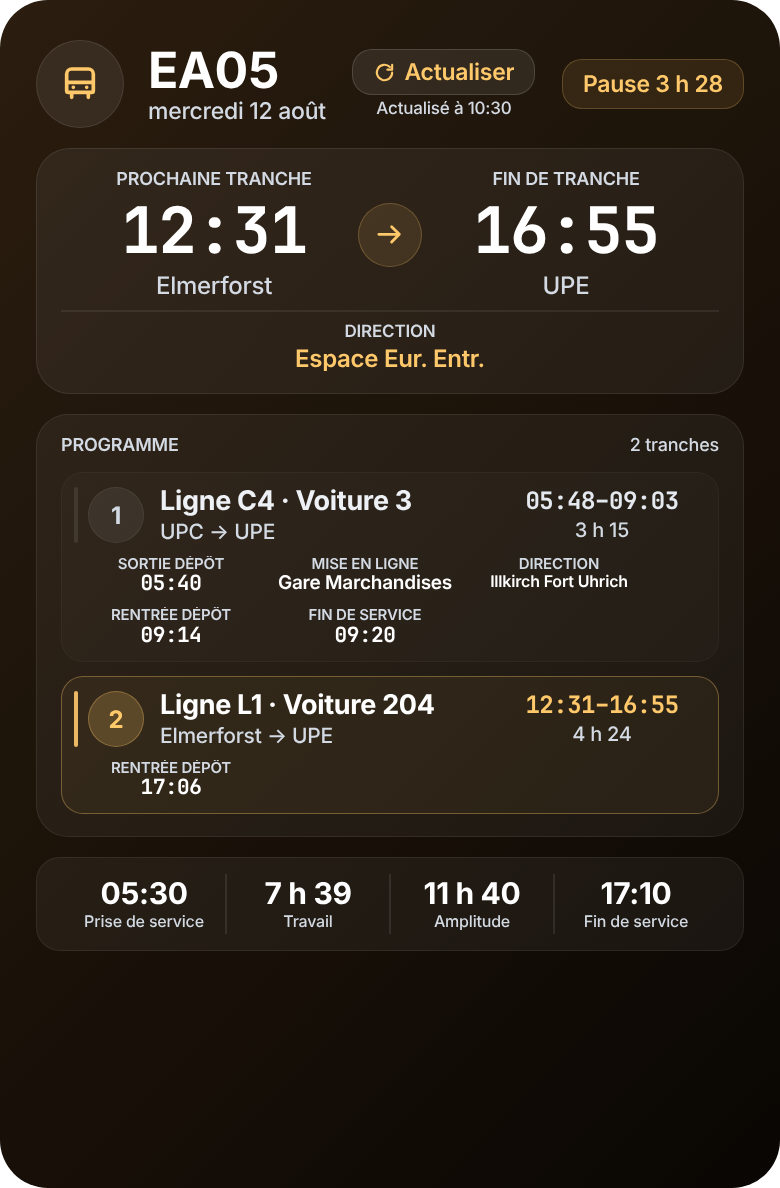
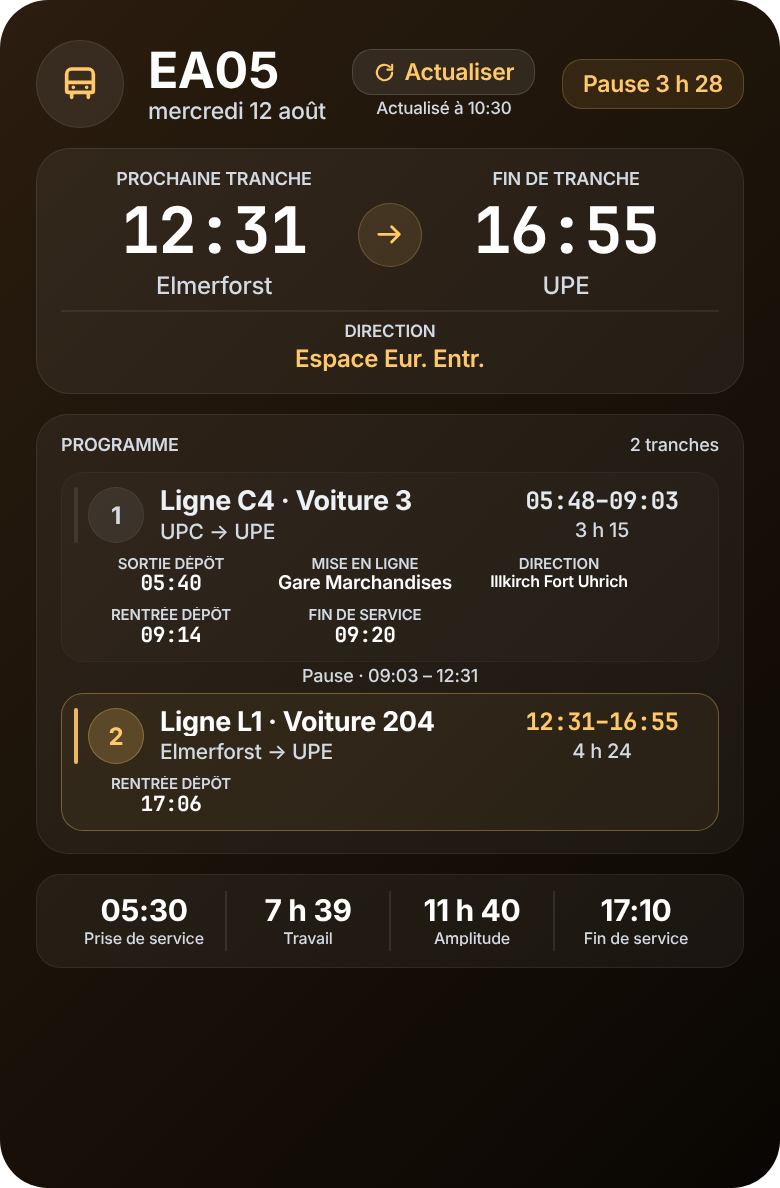
Corriger ce que la relecture a relevé avant publication
Les petites tuiles retrouvent l'heure dans leur coin, sans bouton qu'elles
n'ont pas la place d'accueillir ; en « Grandes polices », le bouton garde
sa taille et ne montre que son symbole, pour laisser sa place à la
pastille. En plein écran, la pause en cours affiche ses horaires sans
répéter la durée de la pastille. Les bancs tiennent ces trois points ; la
skill docs cite à nouveau les bonnes lignes du moteur PDF, les décisions
ne disent plus le comment, et le message ne réannonce plus l'heure.

Claude-Session: https://claude.ai/code/session_01Nj4vxte6242LHfg41seKVP

diff --git a/CTS Widget Renderer.js b/CTS Widget Renderer.js
@@ -236,6 +236,8 @@ function createLargeWidget(context, density) {
 }
 
 const REFRESH_ACTION_ID = "refresh"
+const REFRESH_FAMILIES = Object.freeze(["large", "extralargeportrait"])
+const SYMBOL_ONLY_REFRESH_WIDTH = 70
 
 const MESSAGE_REFRESH = Object.freeze({
   refreshWidth: 86,
@@ -268,6 +270,12 @@ function addRefreshBlock(parent, clock, color, metrics) {
   )
 }
 
+function addCornerClock(parent, clock, size) {
+  const row = parent.addStack()
+  row.addSpacer()
+  addText(row, `Actualisé à ${clock}`, Font.mediumSystemFont(size), secondary(), 1, 0.8)
+}
+
 function addRefreshButton(parent, color, metrics) {
   const button = parent.addStack()
   button.centerAlignContent()
@@ -282,8 +290,12 @@ function addRefreshButton(parent, color, metrics) {
   button.borderWidth = 0.5
   button.borderColor = THEME.translucentWhite(0.14)
   addSymbol(button, "arrow.clockwise", metrics.refreshButtonSize, color)
-  button.addSpacer(4)
-  addText(button, "Actualiser", Font.semiboldSystemFont(metrics.refreshButtonSize), color, 1, 0.8)
+
+  if (metrics.refreshLabel !== false) {
+    button.addSpacer(4)
+    addText(button, "Actualiser", Font.semiboldSystemFont(metrics.refreshButtonSize), color, 1, 0.8)
+  }
+
   button.setAction("Actualiser", { id: REFRESH_ACTION_ID })
 }
 
@@ -609,15 +621,17 @@ function addProgram(parent, service, state, focus, density) {
 
     const interruption = interruptions.find(item => item.afterIndex === index)
 
-    if (interruption && !isAnnouncedByPill(interruption, state)) {
-      addInterruption(card, interruption, density)
+    const announced = Boolean(interruption) && isAnnouncedByPill(interruption, state)
+
+    if (interruption && (!announced || density.interruptionTimes)) {
+      addInterruption(card, interruption, density, announced)
     } else {
       card.addSpacer(density.rowGap)
     }
   })
 }
 
-function addInterruption(parent, interruption, density) {
+function addInterruption(parent, interruption, density, announced) {
   parent.addSpacer(density.interruptionGap)
 
   const row = parent.addStack()
@@ -626,7 +640,7 @@ function addInterruption(parent, interruption, density) {
 
   const parts = [interruption.label]
   if (density.interruptionTimes) parts.push(`${interruption.start} – ${interruption.end}`)
-  parts.push(UTILS.formatDuration(interruption.duration))
+  if (!announced) parts.push(UTILS.formatDuration(interruption.duration))
   const value = parts.join(" · ")
 
   addText(
@@ -1109,8 +1123,6 @@ const TEXT_KEYS = Object.freeze([
   "placeMinimumSize",
   "placeSize",
   "rangeSize",
-  "refreshButtonSize",
-  "refreshClockSize",
   "routeMinimumSize",
   "sectionHeaderSize",
   "serviceSize",
@@ -1130,7 +1142,12 @@ function withTextScale(density, scaleValue) {
 
   if (!Number.isFinite(scale) || scale <= 1) return density
 
-  const scaled = { ...density, hidesOperationalDetails: true }
+  const scaled = {
+    ...density,
+    hidesOperationalDetails: true,
+    refreshLabel: false,
+    refreshWidth: Math.min(density.refreshWidth, SYMBOL_ONLY_REFRESH_WIDTH)
+  }
 
   for (const key of TEXT_KEYS) {
     if (typeof scaled[key] === "number") {
@@ -1148,7 +1165,6 @@ function getDensity(sliceCountValue, textScale = 1) {
 function getPortraitDensity(sliceCountValue, textScale = 1) {
   const crowded = isCrowded(sliceCountValue)
 
-  // Les tailles du plein écran ne tiennent que sur un grand écran : ailleurs, il n'y garde que ses informations en plus.
   if (getDeviceSize().width < WIDE_SCREEN_WIDTH) {
     return fitDensity(
       { ...(crowded ? densityStandard() : densityComfortable()), ...PORTRAIT_INFORMATION },
@@ -1534,6 +1550,7 @@ function createErrorWidget(title, message, family, updatedAt) {
   widget.backgroundColor = THEME.getErrorBackgroundColor()
 
   return fillMessageWidget(widget, {
+    family,
     title,
     message,
     symbol: "exclamationmark.triangle.fill",
@@ -1547,6 +1564,7 @@ function createInfoWidget(title, message, family, updatedAt) {
   if (isAccessoryFamily(family)) return createAccessoryMessage(family, title, message)
 
   return fillMessageWidget(THEME.createBaseWidget("NEXT"), {
+    family,
     title,
     message,
     symbol: "tray.and.arrow.down.fill",
@@ -1558,11 +1576,15 @@ function createInfoWidget(title, message, family, updatedAt) {
 
 function fillMessageWidget(
   widget,
-  { title, message, symbol, symbolColor, messageLines, updatedAt }
+  { family, title, message, symbol, symbolColor, messageLines, updatedAt }
 ) {
   const clock = formatClock(updatedAt)
+  const refreshInHeader = Boolean(clock) && REFRESH_FAMILIES.includes(normalizeFamily(family))
+  const clockInCorner = Boolean(clock) && !refreshInHeader
 
-  widget.setPadding(18, 18, 18, 18)
+  widget.setPadding(18, 18, clockInCorner ? 10 : 18, 18)
+
+  if (clockInCorner) widget.addSpacer()
 
   const header = widget.addStack()
   header.centerAlignContent()
@@ -1577,7 +1599,7 @@ function fillMessageWidget(
   header.addSpacer(10)
   addText(header, title, Font.boldSystemFont(17), THEME.getPrimaryTextColor(), 1, 0.72)
 
-  if (clock) {
+  if (refreshInHeader) {
     header.addSpacer()
     addRefreshBlock(header, clock, symbolColor, MESSAGE_REFRESH)
   }
@@ -1590,6 +1612,11 @@ function fillMessageWidget(
     borderAlpha: 0.07
   })
   addText(card, message, Font.mediumSystemFont(11), secondary(), messageLines, 0.72)
+
+  if (clockInCorner) {
+    widget.addSpacer()
+    addCornerClock(widget, clock, 8)
+  }
 
   return markRendered(widget)
 }

diff --git a/DECISIONS.md b/DECISIONS.md
@@ -626,10 +626,13 @@ décision lui est antérieure.
 - 2026-11-27 — Un bouton « Actualiser » se tient dans l'en-tête, entre la
   date et la pastille, avec l'heure du dernier calcul sous lui. Choix du
   mainteneur, plutôt qu'en bas à droite : la place est là, et le bouton y
-  est plus grand. Le toucher lance un réveil d'action que le script laisse
-  passer sans rien faire, parce qu'un rendu ordinaire le suit et refait
-  tout : travailler dans les deux lirait iCloud deux fois pour un seul
-  écran. Précise la décision du 22 novembre, qui ne plaçait pas l'heure.
+  est plus grand. Un toucher ne calcule le service qu'une fois : le
+  calculer aussi au moment du toucher lirait iCloud deux fois pour un seul
+  écran. En « Grandes polices », le bouton ne garde que son symbole : son
+  libellé agrandi ôtait sa place à la pastille d'état. Il n'existe que sur
+  le grand widget et le plein écran : une petite tuile n'a pas la place de
+  l'accueillir, et garde l'heure dans son coin. Précise la décision du
+  22 novembre, qui ne plaçait pas l'heure.
 - 2026-11-27 — L'amplitude va de la prise à la fin de service, et non plus
   jusqu'à la fin de la dernière tranche. Correction du mainteneur : la fin
   de service peut suivre la fin de tranche, et c'est elle qui borne la
@@ -642,12 +645,11 @@ décision lui est antérieure.
 - 2026-11-27 — Le fichier de suivi `last-run.json` quitte iCloud pour la
   bibliothèque locale de Scriptable, comme les verrous : chaque réveil
   l'écrivait deux fois dans un dossier synchronisé, pour un suivi qui
-  n'apprend rien à un autre appareil. CTS Installer 1.0.35 le lit là, et
-  relit encore l'ancien fichier tant que le nouveau manque. Remplace la
-  réserve du 23 septembre, qui l'y gardait faute de publier l'installateur.
+  n'apprend rien à un autre appareil. Remplace la réserve du 23 septembre,
+  qui l'y gardait faute de publier l'installateur.
 - 2026-11-27 — Un réveil ne vérifie plus qu'une fois le dossier Services
-  et ne lit qu'une fois l'index : le balayage les passe à la sélection et à
-  l'entretien. Chaque lecture d'iCloud allonge un réveil qu'iOS borne.
+  et ne lit qu'une fois l'index : chaque lecture d'iCloud allonge un réveil
+  qu'iOS borne.
 - 2026-11-27 — La refonte de la qualité du code des deux dépôts paraît avec
   le bouton et le plein écran, sous un seul numéro de chaque côté et un
   seul message à la communauté. Choix du mainteneur : une mise à jour à

diff --git a/.claude/skills/docs/pdfjs.md b/.claude/skills/docs/pdfjs.md
@@ -17,7 +17,7 @@ agent se lit dans une WebView servie par iOS, et le dépôt vise encore
 iOS 18 : rien ne garantit que le build moderne y trouve ce qu'il
 suppose.
 
-Le correctif maison de `CTS PDF Engine.js:729` ne vient pas de cette
+Le correctif maison de `CTS PDF Engine.js:617` ne vient pas de cette
 page : il est né d'une panne constatée, et complète l'itération
 asynchrone sur `ReadableStream`. Aucune documentation PDF.js ne dit
 qu'elle est requise. C'est un constat du projet, pas une citation.
@@ -51,7 +51,7 @@ directement, pas d'une page de documentation.
 ## Le moteur ne revérifie jamais la version installée
 
 Constat de lecture du dépôt, non documenté ailleurs :
-`isValidLibraryFile` — `CTS PDF Engine.js:131` — ne contrôle que deux
+`isValidLibraryFile` — `CTS PDF Engine.js:125` — ne contrôle que deux
 choses, l'existence du fichier et sa taille minimale de 100 Ko — le
 plancher de CTS Installer et de la validation, qui refuse qu'ils
 divergent ; il était de 40 Ko jusqu'au 29/10/2026. Le numéro de version
@@ -65,6 +65,6 @@ et il les compare à ceux de l'appareil dès que la révision du dépôt a
 bougé. Constat de lecture de `CTS Installer.js` (`syncFile`,
 `canSkipPinnedLibrary`).
 
-`writeEngineMetadata` — `CTS PDF Engine.js:226` — écrit pourtant la
+`writeEngineMetadata` — `CTS PDF Engine.js:210` — écrit pourtant la
 version installée dans un fichier de métadonnées, `engine.json`, que rien
 ne lit : ni le widget, ni le Diagnostic, ni l'installateur.

diff --git a/README.md b/README.md
@@ -73,7 +73,7 @@ iPhone, le texte y est aussi plus grand.
 
 <p align="center">
   <img src="docs/images/pause-2-tranches-pro-max-440-extralargeportrait.png" width="300"
-       alt="Le widget plein écran en orange, pastille « Pause 3 h 28 » : la tranche suivante en bandeau, puis le programme avec, sous chaque tranche, la sortie et la rentrée au dépôt, la mise en ligne, la direction et la fin de service, et en bas la prise de service, le travail, l'amplitude et la fin de service.">
+       alt="Le widget plein écran en orange, pastille « Pause 3 h 28 » : la tranche suivante en bandeau, puis le programme avec les horaires de la pause en cours et, sous chaque tranche, la sortie et la rentrée au dépôt, la mise en ligne, la direction et la fin de service, et en bas la prise de service, le travail, l'amplitude et la fin de service.">
 </p>
 
 Les images sont dessinées hors iPhone, par le code même qui dessine le
@@ -245,7 +245,7 @@ Dans **CTS Installer → Taille du texte**, deux réglages :
 | Réglage | Ce qu'il change |
 |---|---|
 | **Standard** | toutes les informations, texte de taille habituelle |
-| **Grandes polices** | texte 25 % plus grand ; les détails du dépôt et de la direction sont masqués pour faire la place |
+| **Grandes polices** | texte 25 % plus grand ; les détails du dépôt et de la direction sont masqués, et le bouton Actualiser ne garde que son symbole, pour faire la place |
 
 #### Structure créée automatiquement
 

diff --git a/.claude/skills/docs/SKILL.md b/.claude/skills/docs/SKILL.md
@@ -29,8 +29,8 @@ servent aussi au dépôt admin, qui n'en tient pas de copie.
 | iCloud Drive | — | `CTS Config.js:5` | ✓ `support.apple.com/en-us/108922` · guide Mac `mchle5a61431` (voir l'annexe) |
 | Trousseau iOS | — | `CTS Analytics Client.js` | ✓ `docs.scriptable.app/keychain` |
 | PDF.js — lecture de la carte agent | **6.5.438**, build `legacy` | `CTS PDF Engine.js:10` | ✓ `mozilla.github.io/pdf.js/api` |
-| HTML / CSS / DOM en WebView | — | `CTS PDF Engine.js:725-1062` | ✓ `developer.mozilla.org/en-US/docs/Web/API/Document_Object_Model` |
-| Streams API — un correctif maison compense son absence | — | `CTS PDF Engine.js:729` | ✓ `developer.mozilla.org/en-US/docs/Web/API/Streams_API` |
+| HTML / CSS / DOM en WebView | — | `CTS PDF Engine.js:617-960` | ✓ `developer.mozilla.org/en-US/docs/Web/API/Document_Object_Model` |
+| Streams API — un correctif maison compense son absence | — | `CTS PDF Engine.js:617` | ✓ `developer.mozilla.org/en-US/docs/Web/API/Streams_API` |
 | HASTUS (Giro) — le format de la carte agent | — | `CTS Parser.js` | format propriétaire, aucune doc publique |
 
 La bibliothèque PDF.js arrive par deux chemins : `pdf.min.mjs` et
